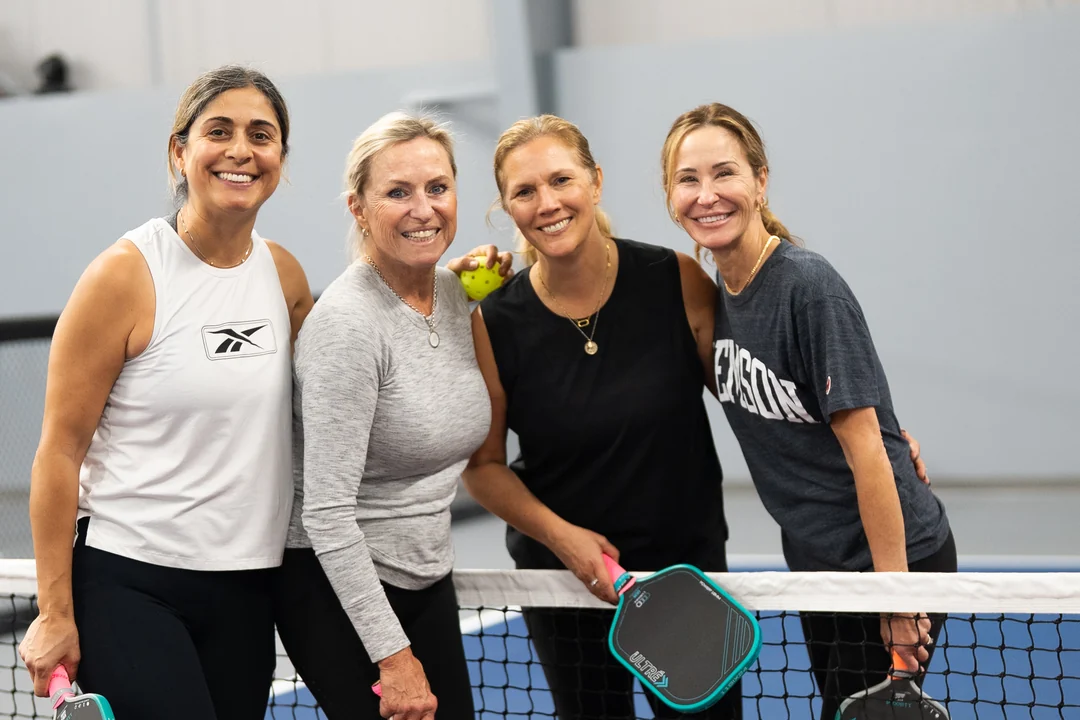
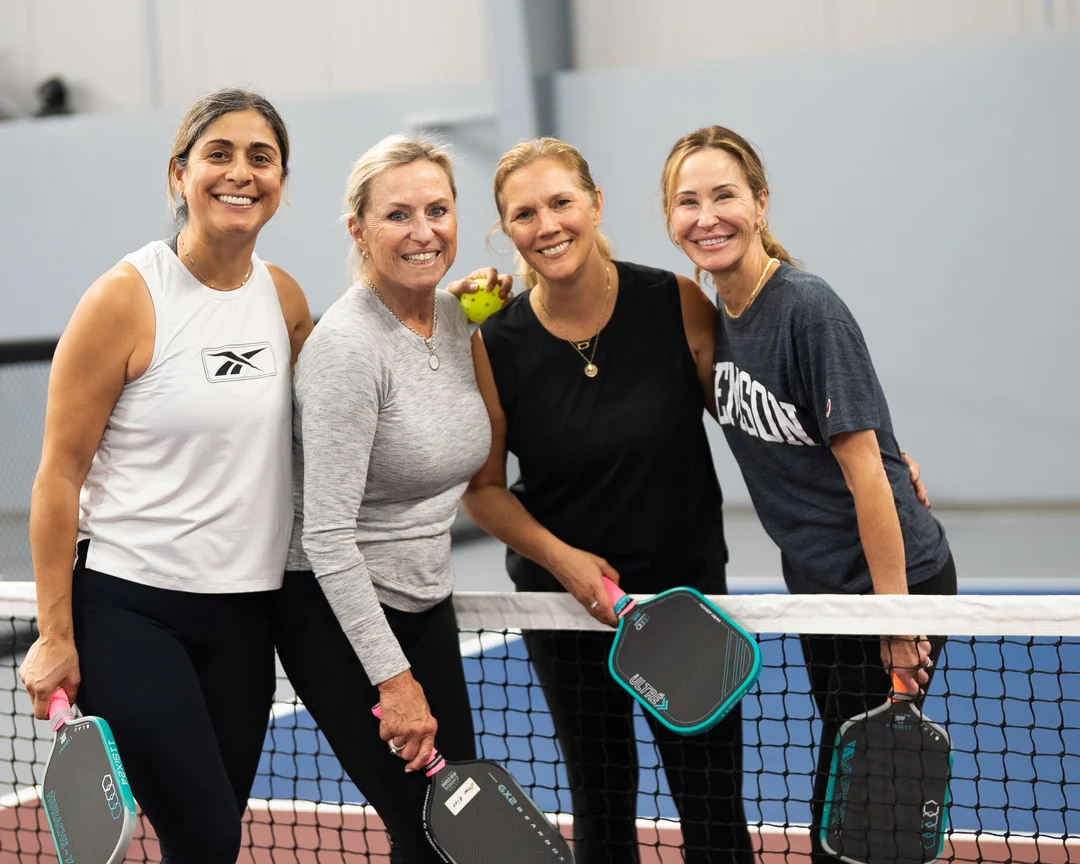
Lead beginner discovery with a welcoming photo hero

diff --git a/docs/new-to-pickle-ball/index.html b/docs/new-to-pickle-ball/index.html
@@ -5,7 +5,7 @@
   -moz-osx-font-smoothing: grayscale;
   -o-font-smoothing: antialiased;
 }
-</style><link rel="stylesheet" href="/nepc-webflow-snapshot/assets/nepc-seo.css"><link rel="stylesheet" href="/nepc-webflow-snapshot/assets/nepc-home-redesign.css?v=20261117-9"><link rel="stylesheet" href="/nepc-webflow-snapshot/assets/nepc-clubs.css?v=20261117-3"><link rel="stylesheet" href="/nepc-webflow-snapshot/assets/nepc-membership-play.css?v=20261117-11"><link rel="stylesheet" href="/nepc-webflow-snapshot/assets/nepc-final-pass.css?v=20261117-6"><link rel="stylesheet" href="/nepc-webflow-snapshot/assets/nepc-beginner-welcome.css?v=20261117-1"><!-- nepc-seo:start --><link rel="canonical" href="https://newenglandpickleball.com/new-to-pickle-ball/"><meta property="og:url" content="https://newenglandpickleball.com/new-to-pickle-ball/"><meta name="description" content="Learn doubles pickleball with NEPC Quick Start classes in Middleton, MA and Rye, NH. Explore the beginner program."><meta property="og:type" content="website"><meta property="og:title" content="Beginner Pickleball Classes in MA &amp; NH | NEPC"><meta property="og:description" content="Learn doubles pickleball with NEPC Quick Start classes in Middleton, MA and Rye, NH. Explore the beginner program."><meta property="og:image" content="https://cdn.prod.website-files.com/67d7a7154f2e71cc1081b1bf/685ec6c781d18bf59383025a_NEPC%20-%20OpenGraph.jpg"><meta name="twitter:card" content="summary_large_image"><meta name="twitter:title" content="Beginner Pickleball Classes in MA &amp; NH | NEPC"><meta name="twitter:description" content="Learn doubles pickleball with NEPC Quick Start classes in Middleton, MA and Rye, NH. Explore the beginner program."><meta name="twitter:image" content="https://cdn.prod.website-files.com/67d7a7154f2e71cc1081b1bf/685ec6c781d18bf59383025a_NEPC%20-%20OpenGraph.jpg"><script type="application/ld+json">{"@context":"https://schema.org","@graph":[{"@type":"Organization","@id":"https://newenglandpickleball.com/#organization","name":"New England Pickleball Club","url":"https://newenglandpickleball.com/","logo":"https://newenglandpickleball.com/assets/cdn.prod.website-files.com/67d7a7154f2e71cc1081b1bf/67d7cef66ded173bdc7deee3_NEPC%20Logo.svg","sameAs":["https://www.facebook.com/nepclub","https://www.instagram.com/nep_club/","https://www.youtube.com/@nep_club"]},{"@type":"FAQPage","mainEntity":[{"@type":"Question","name":"I’ve never played pickleball before but want to learn. What’s my first step?","acceptedAnswer":{"@type":"Answer","text":"Welcome to pickleball! Your first step is to sign up for one of our Quick Start classes. You can find them on our calendar . If there isn’t one that fits your schedule, you can request a private Quick Start class for you and up to 3 of your friends or family members."}},{"@type":"Question","name":"Do I need a paddle to take a class?","acceptedAnswer":{"@type":"Answer","text":"Nope! You can use one of our demo paddles at no additional charge."}},{"@type":"Question","name":"What shoes do I wear?","acceptedAnswer":{"@type":"Answer","text":"To help prevent injury, be sure to wear tennis sneakers or “pickleball shoes.” We ask that you change into your court shoes once you’re inside the club in order to keep the courts clean and protected from outdoor elements."}},{"@type":"Question","name":"What happens after I take a Quick Start class?","acceptedAnswer":{"@type":"Answer","text":"Congrats! You’ve learned the game. Your next step is to sign up for a Coach & Play 101 . You’ll play doubles matches for 90 minutes while reinforcing the basics of the game under the guidance of one of our teaching pros."}}]},{"@type":"BreadcrumbList","itemListElement":[{"@type":"ListItem","position":1,"name":"Home","item":"https://newenglandpickleball.com/"},{"@type":"ListItem","position":2,"name":"Beginner Pickleball Classes in MA & NH","item":"https://newenglandpickleball.com/new-to-pickle-ball/"}]}]}</script><!-- nepc-seo:end --></head><body data-nepc-home="true"><a class="home-skip-link" href="#main-content">Skip to main content</a><div class="page-wrapper navbar-on-page"><div class="global-styles"><div class="style-overrides w-embed"><style>
+</style><link rel="stylesheet" href="/nepc-webflow-snapshot/assets/nepc-seo.css"><link rel="stylesheet" href="/nepc-webflow-snapshot/assets/nepc-home-redesign.css?v=20261117-9"><link rel="stylesheet" href="/nepc-webflow-snapshot/assets/nepc-clubs.css?v=20261117-3"><link rel="stylesheet" href="/nepc-webflow-snapshot/assets/nepc-membership-play.css?v=20261117-11"><link rel="stylesheet" href="/nepc-webflow-snapshot/assets/nepc-final-pass.css?v=20261117-6"><link rel="stylesheet" href="/nepc-webflow-snapshot/assets/nepc-beginner-welcome.css?v=20261117-2"><!-- nepc-seo:start --><link rel="canonical" href="https://newenglandpickleball.com/new-to-pickle-ball/"><meta property="og:url" content="https://newenglandpickleball.com/new-to-pickle-ball/"><meta name="description" content="Learn doubles pickleball with NEPC Quick Start classes in Middleton, MA and Rye, NH. Explore the beginner program."><meta property="og:type" content="website"><meta property="og:title" content="Beginner Pickleball Classes in MA &amp; NH | NEPC"><meta property="og:description" content="Learn doubles pickleball with NEPC Quick Start classes in Middleton, MA and Rye, NH. Explore the beginner program."><meta property="og:image" content="https://cdn.prod.website-files.com/67d7a7154f2e71cc1081b1bf/685ec6c781d18bf59383025a_NEPC%20-%20OpenGraph.jpg"><meta name="twitter:card" content="summary_large_image"><meta name="twitter:title" content="Beginner Pickleball Classes in MA &amp; NH | NEPC"><meta name="twitter:description" content="Learn doubles pickleball with NEPC Quick Start classes in Middleton, MA and Rye, NH. Explore the beginner program."><meta name="twitter:image" content="https://cdn.prod.website-files.com/67d7a7154f2e71cc1081b1bf/685ec6c781d18bf59383025a_NEPC%20-%20OpenGraph.jpg"><script type="application/ld+json">{"@context":"https://schema.org","@graph":[{"@type":"Organization","@id":"https://newenglandpickleball.com/#organization","name":"New England Pickleball Club","url":"https://newenglandpickleball.com/","logo":"https://newenglandpickleball.com/assets/cdn.prod.website-files.com/67d7a7154f2e71cc1081b1bf/67d7cef66ded173bdc7deee3_NEPC%20Logo.svg","sameAs":["https://www.facebook.com/nepclub","https://www.instagram.com/nep_club/","https://www.youtube.com/@nep_club"]},{"@type":"FAQPage","mainEntity":[{"@type":"Question","name":"I’ve never played pickleball before but want to learn. What’s my first step?","acceptedAnswer":{"@type":"Answer","text":"Welcome to pickleball! Your first step is to sign up for one of our Quick Start classes. You can find them on our calendar . If there isn’t one that fits your schedule, you can request a private Quick Start class for you and up to 3 of your friends or family members."}},{"@type":"Question","name":"Do I need a paddle to take a class?","acceptedAnswer":{"@type":"Answer","text":"Nope! You can use one of our demo paddles at no additional charge."}},{"@type":"Question","name":"What shoes do I wear?","acceptedAnswer":{"@type":"Answer","text":"To help prevent injury, be sure to wear tennis sneakers or “pickleball shoes.” We ask that you change into your court shoes once you’re inside the club in order to keep the courts clean and protected from outdoor elements."}},{"@type":"Question","name":"What happens after I take a Quick Start class?","acceptedAnswer":{"@type":"Answer","text":"Congrats! You’ve learned the game. Your next step is to sign up for a Coach & Play 101 . You’ll play doubles matches for 90 minutes while reinforcing the basics of the game under the guidance of one of our teaching pros."}}]},{"@type":"BreadcrumbList","itemListElement":[{"@type":"ListItem","position":1,"name":"Home","item":"https://newenglandpickleball.com/"},{"@type":"ListItem","position":2,"name":"Beginner Pickleball Classes in MA & NH","item":"https://newenglandpickleball.com/new-to-pickle-ball/"}]}]}</script><!-- nepc-seo:end --></head><body data-nepc-home="true"><a class="home-skip-link" href="#main-content">Skip to main content</a><div class="page-wrapper navbar-on-page"><div class="global-styles"><div class="style-overrides w-embed"><style>
 
 /* Ensure all elements inherit the color from its parent */
 a,
@@ -313,7 +313,7 @@ margin: 0rem !important;
   opacity: 1 !important;
 }
 
-</style></div></div><div data-collapse="medium" data-animation="default" data-duration="400" data-w-id="8777b23f-9a78-05fe-8f88-da5899550985" data-easing="ease" data-easing2="ease" role="banner" class="navbar14_component w-nav"><div class="navbar14_container"><a href="/nepc-webflow-snapshot/" class="navbar14_logo-link w-nav-brand"><img loading="eager" src="/nepc-webflow-snapshot/assets/cdn.prod.website-files.com/67d7a7154f2e71cc1081b1bf/67d7cef66ded173bdc7deee3_NEPC Logo.svg" alt="New England Pickleball Club" class="navbar14_logo"/></a><nav role="navigation" id="w-node-_8777b23f-9a78-05fe-8f88-da5899550989-99550985" class="navbar14_menu w-nav-menu"><div class="navbar14_menu-link-wrapper"><div class="navbar14_menu-links"><a href="/nepc-webflow-snapshot/clubs/" class="navbar14_link w-nav-link">Our Clubs</a><a href="/nepc-webflow-snapshot/calendar/" class="navbar14_link w-nav-link">Find Your Play</a><a href="/nepc-webflow-snapshot/coaching/" class="navbar14_link w-nav-link">Lessons &amp; Coaching</a><a href="/nepc-webflow-snapshot/membership/" class="navbar14_link w-nav-link">Memberships</a><a href="/nepc-webflow-snapshot/community-events/" class="navbar14_link w-nav-link">Club Experiences</a><a href="/nepc-webflow-snapshot/contact/" class="navbar14_link w-nav-link">Contact</a></div><div id="w-node-_8777b23f-9a78-05fe-8f88-da589955099e-99550985" class="navbar14_button-wrapper"><a href="/nepc-webflow-snapshot/book-a-court/" class="button is-alternate is-small w-button">Book a Court</a><a href="/nepc-webflow-snapshot/new-to-pickle-ball/" class="button is-secondary is-alternate is-small w-button">New to Pickleball?</a></div></div></nav><div class="navbar14_menu-button w-nav-button"><div class="menu-icon2"><div class="menu-icon2_line-top"></div><div class="menu-icon2_line-middle"><div class="menu-icon1_line-middle-inner"></div></div><div class="menu-icon2_line-bottom"></div></div></div></div></div><main id="main-content" class="nepc-services nepc-clubs nepc-find-play fv-beginner-page" data-default-activity="beginner" data-day-period="month"><header class="fv-wrap fv-start-hero fv-welcome-hero"><div class="fv-welcome-copy"><h1 class="fv-kicker nepc-keyword-heading"><span>Beginner Pickleball Classes</span><span class="fv-welcome-locations">Rye, New Hampshire &amp; Middleton, Massachusetts</span></h1><div class="fv-hero-title">Your first game starts here.</div><p>Choose your club and a program. See the next sessions right here.</p></div><figure class="fv-welcome-photo"><img src="/nepc-webflow-snapshot/assets/nepc-photos/nepc-four-players-smiling-720.webp" srcset="/nepc-webflow-snapshot/assets/nepc-photos/nepc-four-players-smiling-720.webp 720w, /nepc-webflow-snapshot/assets/nepc-photos/nepc-four-players-smiling-1080.webp 1080w" sizes="(max-width: 700px) 320px, (max-width: 900px) 38vw, 348px" width="1080" height="720" alt="Four NEPC players smiling together beside the net." fetchpriority="high" decoding="async"></figure></header><section class="fv-start-band"><div class="fv-wrap fv-start-controls"><p class="fv-kicker fv-welcome-step"><span aria-hidden="true">1</span> Choose your club</p><div class="mp-location-controls" hidden role="group" aria-label="Choose a club for beginner sessions"><button type="button" class="mp-location-button" data-play-location="rye" aria-pressed="true"><span>Rye, NH</span></button><button type="button" class="mp-location-button" data-play-location="middleton" aria-pressed="false"><span>Middleton, MA</span></button></div><p class="fv-sr" data-location-status aria-live="polite"></p><div class="mp-beginner-programs" data-beginner-programs><p class="fv-welcome-step"><span aria-hidden="true">2</span> Choose a program</p><div class="mp-event-filters" role="group" aria-label="Filter beginner programs"><button type="button" class="mp-event-filter" data-program-filter="all" aria-pressed="true">All Beginner Programs</button><button type="button" class="mp-event-filter" data-program-filter="quickstart" aria-pressed="false">Quick Start</button><button type="button" class="mp-event-filter" data-program-filter="coach-play" aria-pressed="false">Coach &amp; Play 101</button><button type="button" class="mp-event-filter" data-program-filter="samara" aria-pressed="false">Guided Play with Samara</button></div></div><p class="fv-program-description" data-program-description>Choose a program or browse the next beginner sessions at your club.</p></div><section class="lc-container mp-sessions mp-agenda" id="sessions">
+</style></div></div><div data-collapse="medium" data-animation="default" data-duration="400" data-w-id="8777b23f-9a78-05fe-8f88-da5899550985" data-easing="ease" data-easing2="ease" role="banner" class="navbar14_component w-nav"><div class="navbar14_container"><a href="/nepc-webflow-snapshot/" class="navbar14_logo-link w-nav-brand"><img loading="eager" src="/nepc-webflow-snapshot/assets/cdn.prod.website-files.com/67d7a7154f2e71cc1081b1bf/67d7cef66ded173bdc7deee3_NEPC Logo.svg" alt="New England Pickleball Club" class="navbar14_logo"/></a><nav role="navigation" id="w-node-_8777b23f-9a78-05fe-8f88-da5899550989-99550985" class="navbar14_menu w-nav-menu"><div class="navbar14_menu-link-wrapper"><div class="navbar14_menu-links"><a href="/nepc-webflow-snapshot/clubs/" class="navbar14_link w-nav-link">Our Clubs</a><a href="/nepc-webflow-snapshot/calendar/" class="navbar14_link w-nav-link">Find Your Play</a><a href="/nepc-webflow-snapshot/coaching/" class="navbar14_link w-nav-link">Lessons &amp; Coaching</a><a href="/nepc-webflow-snapshot/membership/" class="navbar14_link w-nav-link">Memberships</a><a href="/nepc-webflow-snapshot/community-events/" class="navbar14_link w-nav-link">Club Experiences</a><a href="/nepc-webflow-snapshot/contact/" class="navbar14_link w-nav-link">Contact</a></div><div id="w-node-_8777b23f-9a78-05fe-8f88-da589955099e-99550985" class="navbar14_button-wrapper"><a href="/nepc-webflow-snapshot/book-a-court/" class="button is-alternate is-small w-button">Book a Court</a><a href="/nepc-webflow-snapshot/new-to-pickle-ball/" class="button is-secondary is-alternate is-small w-button">New to Pickleball?</a></div></div></nav><div class="navbar14_menu-button w-nav-button"><div class="menu-icon2"><div class="menu-icon2_line-top"></div><div class="menu-icon2_line-middle"><div class="menu-icon1_line-middle-inner"></div></div><div class="menu-icon2_line-bottom"></div></div></div></div></div><main id="main-content" class="nepc-services nepc-clubs nepc-find-play fv-beginner-page" data-default-activity="beginner" data-day-period="month"><header class="fv-wrap fv-start-hero fv-welcome-hero"><div class="fv-welcome-copy"><h1 class="fv-kicker nepc-keyword-heading"><span>Beginner Pickleball Classes</span><span class="fv-welcome-locations">Rye, New Hampshire &amp; Middleton, Massachusetts</span></h1><div class="fv-hero-title">Your first game<br>starts here.</div><p class="fv-welcome-intro">At New England Pickleball Club, beginners belong on the court. We’re here to help you learn, feel welcome and find opportunities to play.</p><p class="fv-welcome-programs">Start with Quick Start, build confidence with Coach &amp; Play 101, or join Guided Play with Samara.</p><a class="fv-button fv-welcome-cta" href="#beginner-sessions">Find your first session <span aria-hidden="true">↓</span></a></div><figure class="fv-welcome-photo"><img src="/nepc-webflow-snapshot/assets/nepc-photos/nepc-four-players-smiling-720.webp" srcset="/nepc-webflow-snapshot/assets/nepc-photos/nepc-four-players-smiling-720.webp 720w, /nepc-webflow-snapshot/assets/nepc-photos/nepc-four-players-smiling-1080.webp 1080w" sizes="(max-width: 700px) calc(100vw - 40px), (max-width: 900px) 43vw, (max-width: 1184px) 49vw, 584px" width="1080" height="864" alt="Four NEPC players smiling together beside the net." fetchpriority="high" decoding="async"></figure></header><section class="fv-start-band" id="beginner-sessions"><div class="fv-wrap fv-start-intro"><h2>Choose your club &amp; program.</h2><p>See the next sessions right here.</p></div><div class="fv-wrap fv-start-controls"><p class="fv-kicker fv-welcome-step"><span aria-hidden="true">1</span> Choose your club</p><div class="mp-location-controls" hidden role="group" aria-label="Choose a club for beginner sessions"><button type="button" class="mp-location-button" data-play-location="rye" aria-pressed="true"><span>Rye, NH</span></button><button type="button" class="mp-location-button" data-play-location="middleton" aria-pressed="false"><span>Middleton, MA</span></button></div><p class="fv-sr" data-location-status aria-live="polite"></p><div class="mp-beginner-programs" data-beginner-programs><p class="fv-welcome-step"><span aria-hidden="true">2</span> Choose a program</p><div class="mp-event-filters" role="group" aria-label="Filter beginner programs"><button type="button" class="mp-event-filter" data-program-filter="all" aria-pressed="true">All Beginner Programs</button><button type="button" class="mp-event-filter" data-program-filter="quickstart" aria-pressed="false">Quick Start</button><button type="button" class="mp-event-filter" data-program-filter="coach-play" aria-pressed="false">Coach &amp; Play 101</button><button type="button" class="mp-event-filter" data-program-filter="samara" aria-pressed="false">Guided Play with Samara</button></div></div><p class="fv-program-description" data-program-description>Choose a program or browse the next beginner sessions at your club.</p></div><section class="lc-container mp-sessions mp-agenda" id="sessions">
 <div data-event-results><div class="mp-agenda-heading"><div><p class="lc-eyebrow">Beginner sessions</p><h2 data-agenda-title>This week at NEPC Rye.</h2></div><div class="mp-view-options" role="group" aria-label="Event date view"><button type="button" data-date-view="day" aria-pressed="true">Day</button><button type="button" data-date-view="week" aria-pressed="false">Week</button><button type="button" data-date-view="month" aria-pressed="false">Month</button></div></div>
 <div class="mp-date-navigation"><button type="button" class="mp-date-arrow" data-period="previous" aria-label="Previous week">←</button><h3 data-period-label></h3><button type="button" class="mp-date-arrow" data-period="next" aria-label="Next week">→</button><button type="button" class="mp-today" data-period="current">This week</button></div>
 <p class="mp-agenda-status" role="status" data-agenda-status>Loading upcoming events…</p><div class="mp-event-days" data-event-days></div>

diff --git a/dist/new-to-pickle-ball/index.html b/dist/new-to-pickle-ball/index.html
@@ -5,7 +5,7 @@
   -moz-osx-font-smoothing: grayscale;
   -o-font-smoothing: antialiased;
 }
-</style><link rel="stylesheet" href="/assets/nepc-seo.css"><link rel="stylesheet" href="/assets/nepc-home-redesign.css?v=20261117-9"><link rel="stylesheet" href="/assets/nepc-clubs.css?v=20261117-3"><link rel="stylesheet" href="/assets/nepc-membership-play.css?v=20261117-11"><link rel="stylesheet" href="/assets/nepc-final-pass.css?v=20261117-6"><link rel="stylesheet" href="/assets/nepc-beginner-welcome.css?v=20261117-1"><!-- nepc-seo:start --><link rel="canonical" href="https://newenglandpickleball.com/new-to-pickle-ball/"><meta property="og:url" content="https://newenglandpickleball.com/new-to-pickle-ball/"><meta name="description" content="Learn doubles pickleball with NEPC Quick Start classes in Middleton, MA and Rye, NH. Explore the beginner program."><meta property="og:type" content="website"><meta property="og:title" content="Beginner Pickleball Classes in MA &amp; NH | NEPC"><meta property="og:description" content="Learn doubles pickleball with NEPC Quick Start classes in Middleton, MA and Rye, NH. Explore the beginner program."><meta property="og:image" content="https://cdn.prod.website-files.com/67d7a7154f2e71cc1081b1bf/685ec6c781d18bf59383025a_NEPC%20-%20OpenGraph.jpg"><meta name="twitter:card" content="summary_large_image"><meta name="twitter:title" content="Beginner Pickleball Classes in MA &amp; NH | NEPC"><meta name="twitter:description" content="Learn doubles pickleball with NEPC Quick Start classes in Middleton, MA and Rye, NH. Explore the beginner program."><meta name="twitter:image" content="https://cdn.prod.website-files.com/67d7a7154f2e71cc1081b1bf/685ec6c781d18bf59383025a_NEPC%20-%20OpenGraph.jpg"><script type="application/ld+json">{"@context":"https://schema.org","@graph":[{"@type":"Organization","@id":"https://newenglandpickleball.com/#organization","name":"New England Pickleball Club","url":"https://newenglandpickleball.com/","logo":"https://newenglandpickleball.com/assets/cdn.prod.website-files.com/67d7a7154f2e71cc1081b1bf/67d7cef66ded173bdc7deee3_NEPC%20Logo.svg","sameAs":["https://www.facebook.com/nepclub","https://www.instagram.com/nep_club/","https://www.youtube.com/@nep_club"]},{"@type":"FAQPage","mainEntity":[{"@type":"Question","name":"I’ve never played pickleball before but want to learn. What’s my first step?","acceptedAnswer":{"@type":"Answer","text":"Welcome to pickleball! Your first step is to sign up for one of our Quick Start classes. You can find them on our calendar . If there isn’t one that fits your schedule, you can request a private Quick Start class for you and up to 3 of your friends or family members."}},{"@type":"Question","name":"Do I need a paddle to take a class?","acceptedAnswer":{"@type":"Answer","text":"Nope! You can use one of our demo paddles at no additional charge."}},{"@type":"Question","name":"What shoes do I wear?","acceptedAnswer":{"@type":"Answer","text":"To help prevent injury, be sure to wear tennis sneakers or “pickleball shoes.” We ask that you change into your court shoes once you’re inside the club in order to keep the courts clean and protected from outdoor elements."}},{"@type":"Question","name":"What happens after I take a Quick Start class?","acceptedAnswer":{"@type":"Answer","text":"Congrats! You’ve learned the game. Your next step is to sign up for a Coach & Play 101 . You’ll play doubles matches for 90 minutes while reinforcing the basics of the game under the guidance of one of our teaching pros."}}]},{"@type":"BreadcrumbList","itemListElement":[{"@type":"ListItem","position":1,"name":"Home","item":"https://newenglandpickleball.com/"},{"@type":"ListItem","position":2,"name":"Beginner Pickleball Classes in MA & NH","item":"https://newenglandpickleball.com/new-to-pickle-ball/"}]}]}</script><!-- nepc-seo:end --></head><body data-nepc-home="true"><a class="home-skip-link" href="#main-content">Skip to main content</a><div class="page-wrapper navbar-on-page"><div class="global-styles"><div class="style-overrides w-embed"><style>
+</style><link rel="stylesheet" href="/assets/nepc-seo.css"><link rel="stylesheet" href="/assets/nepc-home-redesign.css?v=20261117-9"><link rel="stylesheet" href="/assets/nepc-clubs.css?v=20261117-3"><link rel="stylesheet" href="/assets/nepc-membership-play.css?v=20261117-11"><link rel="stylesheet" href="/assets/nepc-final-pass.css?v=20261117-6"><link rel="stylesheet" href="/assets/nepc-beginner-welcome.css?v=20261117-2"><!-- nepc-seo:start --><link rel="canonical" href="https://newenglandpickleball.com/new-to-pickle-ball/"><meta property="og:url" content="https://newenglandpickleball.com/new-to-pickle-ball/"><meta name="description" content="Learn doubles pickleball with NEPC Quick Start classes in Middleton, MA and Rye, NH. Explore the beginner program."><meta property="og:type" content="website"><meta property="og:title" content="Beginner Pickleball Classes in MA &amp; NH | NEPC"><meta property="og:description" content="Learn doubles pickleball with NEPC Quick Start classes in Middleton, MA and Rye, NH. Explore the beginner program."><meta property="og:image" content="https://cdn.prod.website-files.com/67d7a7154f2e71cc1081b1bf/685ec6c781d18bf59383025a_NEPC%20-%20OpenGraph.jpg"><meta name="twitter:card" content="summary_large_image"><meta name="twitter:title" content="Beginner Pickleball Classes in MA &amp; NH | NEPC"><meta name="twitter:description" content="Learn doubles pickleball with NEPC Quick Start classes in Middleton, MA and Rye, NH. Explore the beginner program."><meta name="twitter:image" content="https://cdn.prod.website-files.com/67d7a7154f2e71cc1081b1bf/685ec6c781d18bf59383025a_NEPC%20-%20OpenGraph.jpg"><script type="application/ld+json">{"@context":"https://schema.org","@graph":[{"@type":"Organization","@id":"https://newenglandpickleball.com/#organization","name":"New England Pickleball Club","url":"https://newenglandpickleball.com/","logo":"https://newenglandpickleball.com/assets/cdn.prod.website-files.com/67d7a7154f2e71cc1081b1bf/67d7cef66ded173bdc7deee3_NEPC%20Logo.svg","sameAs":["https://www.facebook.com/nepclub","https://www.instagram.com/nep_club/","https://www.youtube.com/@nep_club"]},{"@type":"FAQPage","mainEntity":[{"@type":"Question","name":"I’ve never played pickleball before but want to learn. What’s my first step?","acceptedAnswer":{"@type":"Answer","text":"Welcome to pickleball! Your first step is to sign up for one of our Quick Start classes. You can find them on our calendar . If there isn’t one that fits your schedule, you can request a private Quick Start class for you and up to 3 of your friends or family members."}},{"@type":"Question","name":"Do I need a paddle to take a class?","acceptedAnswer":{"@type":"Answer","text":"Nope! You can use one of our demo paddles at no additional charge."}},{"@type":"Question","name":"What shoes do I wear?","acceptedAnswer":{"@type":"Answer","text":"To help prevent injury, be sure to wear tennis sneakers or “pickleball shoes.” We ask that you change into your court shoes once you’re inside the club in order to keep the courts clean and protected from outdoor elements."}},{"@type":"Question","name":"What happens after I take a Quick Start class?","acceptedAnswer":{"@type":"Answer","text":"Congrats! You’ve learned the game. Your next step is to sign up for a Coach & Play 101 . You’ll play doubles matches for 90 minutes while reinforcing the basics of the game under the guidance of one of our teaching pros."}}]},{"@type":"BreadcrumbList","itemListElement":[{"@type":"ListItem","position":1,"name":"Home","item":"https://newenglandpickleball.com/"},{"@type":"ListItem","position":2,"name":"Beginner Pickleball Classes in MA & NH","item":"https://newenglandpickleball.com/new-to-pickle-ball/"}]}]}</script><!-- nepc-seo:end --></head><body data-nepc-home="true"><a class="home-skip-link" href="#main-content">Skip to main content</a><div class="page-wrapper navbar-on-page"><div class="global-styles"><div class="style-overrides w-embed"><style>
 
 /* Ensure all elements inherit the color from its parent */
 a,
@@ -313,7 +313,7 @@ margin: 0rem !important;
   opacity: 1 !important;
 }
 
-</style></div></div><div data-collapse="medium" data-animation="default" data-duration="400" data-w-id="8777b23f-9a78-05fe-8f88-da5899550985" data-easing="ease" data-easing2="ease" role="banner" class="navbar14_component w-nav"><div class="navbar14_container"><a href="/" class="navbar14_logo-link w-nav-brand"><img loading="eager" src="/assets/cdn.prod.website-files.com/67d7a7154f2e71cc1081b1bf/67d7cef66ded173bdc7deee3_NEPC Logo.svg" alt="New England Pickleball Club" class="navbar14_logo"/></a><nav role="navigation" id="w-node-_8777b23f-9a78-05fe-8f88-da5899550989-99550985" class="navbar14_menu w-nav-menu"><div class="navbar14_menu-link-wrapper"><div class="navbar14_menu-links"><a href="/clubs/" class="navbar14_link w-nav-link">Our Clubs</a><a href="/calendar/" class="navbar14_link w-nav-link">Find Your Play</a><a href="/coaching/" class="navbar14_link w-nav-link">Lessons &amp; Coaching</a><a href="/membership/" class="navbar14_link w-nav-link">Memberships</a><a href="/community-events/" class="navbar14_link w-nav-link">Club Experiences</a><a href="/contact/" class="navbar14_link w-nav-link">Contact</a></div><div id="w-node-_8777b23f-9a78-05fe-8f88-da589955099e-99550985" class="navbar14_button-wrapper"><a href="/book-a-court/" class="button is-alternate is-small w-button">Book a Court</a><a href="/new-to-pickle-ball/" class="button is-secondary is-alternate is-small w-button">New to Pickleball?</a></div></div></nav><div class="navbar14_menu-button w-nav-button"><div class="menu-icon2"><div class="menu-icon2_line-top"></div><div class="menu-icon2_line-middle"><div class="menu-icon1_line-middle-inner"></div></div><div class="menu-icon2_line-bottom"></div></div></div></div></div><main id="main-content" class="nepc-services nepc-clubs nepc-find-play fv-beginner-page" data-default-activity="beginner" data-day-period="month"><header class="fv-wrap fv-start-hero fv-welcome-hero"><div class="fv-welcome-copy"><h1 class="fv-kicker nepc-keyword-heading"><span>Beginner Pickleball Classes</span><span class="fv-welcome-locations">Rye, New Hampshire &amp; Middleton, Massachusetts</span></h1><div class="fv-hero-title">Your first game starts here.</div><p>Choose your club and a program. See the next sessions right here.</p></div><figure class="fv-welcome-photo"><img src="/assets/nepc-photos/nepc-four-players-smiling-720.webp" srcset="/assets/nepc-photos/nepc-four-players-smiling-720.webp 720w, /assets/nepc-photos/nepc-four-players-smiling-1080.webp 1080w" sizes="(max-width: 700px) 320px, (max-width: 900px) 38vw, 348px" width="1080" height="720" alt="Four NEPC players smiling together beside the net." fetchpriority="high" decoding="async"></figure></header><section class="fv-start-band"><div class="fv-wrap fv-start-controls"><p class="fv-kicker fv-welcome-step"><span aria-hidden="true">1</span> Choose your club</p><div class="mp-location-controls" hidden role="group" aria-label="Choose a club for beginner sessions"><button type="button" class="mp-location-button" data-play-location="rye" aria-pressed="true"><span>Rye, NH</span></button><button type="button" class="mp-location-button" data-play-location="middleton" aria-pressed="false"><span>Middleton, MA</span></button></div><p class="fv-sr" data-location-status aria-live="polite"></p><div class="mp-beginner-programs" data-beginner-programs><p class="fv-welcome-step"><span aria-hidden="true">2</span> Choose a program</p><div class="mp-event-filters" role="group" aria-label="Filter beginner programs"><button type="button" class="mp-event-filter" data-program-filter="all" aria-pressed="true">All Beginner Programs</button><button type="button" class="mp-event-filter" data-program-filter="quickstart" aria-pressed="false">Quick Start</button><button type="button" class="mp-event-filter" data-program-filter="coach-play" aria-pressed="false">Coach &amp; Play 101</button><button type="button" class="mp-event-filter" data-program-filter="samara" aria-pressed="false">Guided Play with Samara</button></div></div><p class="fv-program-description" data-program-description>Choose a program or browse the next beginner sessions at your club.</p></div><section class="lc-container mp-sessions mp-agenda" id="sessions">
+</style></div></div><div data-collapse="medium" data-animation="default" data-duration="400" data-w-id="8777b23f-9a78-05fe-8f88-da5899550985" data-easing="ease" data-easing2="ease" role="banner" class="navbar14_component w-nav"><div class="navbar14_container"><a href="/" class="navbar14_logo-link w-nav-brand"><img loading="eager" src="/assets/cdn.prod.website-files.com/67d7a7154f2e71cc1081b1bf/67d7cef66ded173bdc7deee3_NEPC Logo.svg" alt="New England Pickleball Club" class="navbar14_logo"/></a><nav role="navigation" id="w-node-_8777b23f-9a78-05fe-8f88-da5899550989-99550985" class="navbar14_menu w-nav-menu"><div class="navbar14_menu-link-wrapper"><div class="navbar14_menu-links"><a href="/clubs/" class="navbar14_link w-nav-link">Our Clubs</a><a href="/calendar/" class="navbar14_link w-nav-link">Find Your Play</a><a href="/coaching/" class="navbar14_link w-nav-link">Lessons &amp; Coaching</a><a href="/membership/" class="navbar14_link w-nav-link">Memberships</a><a href="/community-events/" class="navbar14_link w-nav-link">Club Experiences</a><a href="/contact/" class="navbar14_link w-nav-link">Contact</a></div><div id="w-node-_8777b23f-9a78-05fe-8f88-da589955099e-99550985" class="navbar14_button-wrapper"><a href="/book-a-court/" class="button is-alternate is-small w-button">Book a Court</a><a href="/new-to-pickle-ball/" class="button is-secondary is-alternate is-small w-button">New to Pickleball?</a></div></div></nav><div class="navbar14_menu-button w-nav-button"><div class="menu-icon2"><div class="menu-icon2_line-top"></div><div class="menu-icon2_line-middle"><div class="menu-icon1_line-middle-inner"></div></div><div class="menu-icon2_line-bottom"></div></div></div></div></div><main id="main-content" class="nepc-services nepc-clubs nepc-find-play fv-beginner-page" data-default-activity="beginner" data-day-period="month"><header class="fv-wrap fv-start-hero fv-welcome-hero"><div class="fv-welcome-copy"><h1 class="fv-kicker nepc-keyword-heading"><span>Beginner Pickleball Classes</span><span class="fv-welcome-locations">Rye, New Hampshire &amp; Middleton, Massachusetts</span></h1><div class="fv-hero-title">Your first game<br>starts here.</div><p class="fv-welcome-intro">At New England Pickleball Club, beginners belong on the court. We’re here to help you learn, feel welcome and find opportunities to play.</p><p class="fv-welcome-programs">Start with Quick Start, build confidence with Coach &amp; Play 101, or join Guided Play with Samara.</p><a class="fv-button fv-welcome-cta" href="#beginner-sessions">Find your first session <span aria-hidden="true">↓</span></a></div><figure class="fv-welcome-photo"><img src="/assets/nepc-photos/nepc-four-players-smiling-720.webp" srcset="/assets/nepc-photos/nepc-four-players-smiling-720.webp 720w, /assets/nepc-photos/nepc-four-players-smiling-1080.webp 1080w" sizes="(max-width: 700px) calc(100vw - 40px), (max-width: 900px) 43vw, (max-width: 1184px) 49vw, 584px" width="1080" height="864" alt="Four NEPC players smiling together beside the net." fetchpriority="high" decoding="async"></figure></header><section class="fv-start-band" id="beginner-sessions"><div class="fv-wrap fv-start-intro"><h2>Choose your club &amp; program.</h2><p>See the next sessions right here.</p></div><div class="fv-wrap fv-start-controls"><p class="fv-kicker fv-welcome-step"><span aria-hidden="true">1</span> Choose your club</p><div class="mp-location-controls" hidden role="group" aria-label="Choose a club for beginner sessions"><button type="button" class="mp-location-button" data-play-location="rye" aria-pressed="true"><span>Rye, NH</span></button><button type="button" class="mp-location-button" data-play-location="middleton" aria-pressed="false"><span>Middleton, MA</span></button></div><p class="fv-sr" data-location-status aria-live="polite"></p><div class="mp-beginner-programs" data-beginner-programs><p class="fv-welcome-step"><span aria-hidden="true">2</span> Choose a program</p><div class="mp-event-filters" role="group" aria-label="Filter beginner programs"><button type="button" class="mp-event-filter" data-program-filter="all" aria-pressed="true">All Beginner Programs</button><button type="button" class="mp-event-filter" data-program-filter="quickstart" aria-pressed="false">Quick Start</button><button type="button" class="mp-event-filter" data-program-filter="coach-play" aria-pressed="false">Coach &amp; Play 101</button><button type="button" class="mp-event-filter" data-program-filter="samara" aria-pressed="false">Guided Play with Samara</button></div></div><p class="fv-program-description" data-program-description>Choose a program or browse the next beginner sessions at your club.</p></div><section class="lc-container mp-sessions mp-agenda" id="sessions">
 <div data-event-results><div class="mp-agenda-heading"><div><p class="lc-eyebrow">Beginner sessions</p><h2 data-agenda-title>This week at NEPC Rye.</h2></div><div class="mp-view-options" role="group" aria-label="Event date view"><button type="button" data-date-view="day" aria-pressed="true">Day</button><button type="button" data-date-view="week" aria-pressed="false">Week</button><button type="button" data-date-view="month" aria-pressed="false">Month</button></div></div>
 <div class="mp-date-navigation"><button type="button" class="mp-date-arrow" data-period="previous" aria-label="Previous week">←</button><h3 data-period-label></h3><button type="button" class="mp-date-arrow" data-period="next" aria-label="Next week">→</button><button type="button" class="mp-today" data-period="current">This week</button></div>
 <p class="mp-agenda-status" role="status" data-agenda-status>Loading upcoming events…</p><div class="mp-event-days" data-event-days></div>

diff --git a/dist/assets/nepc-beginner-welcome.css b/dist/assets/nepc-beginner-welcome.css
@@ -1,10 +1,11 @@
-/* A compact welcome and a clear club-first sequence for beginner sessions. */
+/* A welcoming introduction before the club-first beginner session chooser. */
 .fv-beginner-page .fv-welcome-hero {
   display:grid;
-  grid-template-columns:minmax(0,1fr) 348px;
-  gap:48px;
+  grid-template-columns:minmax(0,.9fr) minmax(0,1.1fr);
+  gap:56px;
   align-items:center;
-  padding-block:32px;
+  min-height:clamp(580px,calc(100svh - 81px),720px);
+  padding-block:56px;
 }
 body[data-nepc-home] .fv-beginner-page h1.nepc-keyword-heading {
   margin:0 0 18px;
@@ -21,16 +22,31 @@ body[data-nepc-home] .fv-beginner-page h1.nepc-keyword-heading {
   letter-spacing:0;
 }
 .nepc-services .fv-welcome-copy .fv-hero-title {
-  max-width:20ch;
-  font-size:38px;
-  line-height:1.15;
+  max-width:16ch;
+  font-size:clamp(44px,4.3vw,56px);
+  line-height:1.08;
+  letter-spacing:-.045em;
   text-wrap:balance;
 }
 .nepc-services .fv-welcome-copy > p {
-  max-width:48ch;
+  max-width:46ch;
+  margin-top:20px;
+  font-size:15px;
+  line-height:1.75;
+}
+.nepc-services .fv-welcome-copy > .fv-welcome-programs {
   margin-top:14px;
   font-size:14px;
-  text-wrap:balance;
+}
+.fv-welcome-cta { margin-top:26px; }
+.fv-start-band { scroll-margin-top:24px; }
+.fv-start-intro { margin-bottom:26px; }
+.nepc-services .fv-start-intro h2 { font-size:27px; }
+.nepc-services .fv-start-intro > p { margin-top:7px; font-size:14px; }
+.fv-beginner-page .fv-start-band { padding-top:40px; }
+.fv-beginner-page .fv-welcome-photo {
+  width:100%;
+  border-radius:22px 22px 64px 22px;
 }
 .fv-welcome-photo {
   overflow:hidden;
@@ -41,7 +57,7 @@ body[data-nepc-home] .fv-beginner-page h1.nepc-keyword-heading {
   display:block;
   width:100%;
   height:auto;
-  aspect-ratio:3/2;
+  aspect-ratio:5/4;
   object-fit:cover;
 }
 .fv-beginner-page .fv-start-controls { display:block; }
@@ -87,24 +103,32 @@ body[data-nepc-home] .fv-beginner-page h1.nepc-keyword-heading {
 }
 @media (max-width:900px) {
   .fv-beginner-page .fv-welcome-hero {
-    grid-template-columns:minmax(0,1fr) 38%;
+    grid-template-columns:minmax(0,1fr) 43%;
     gap:28px;
+    min-height:0;
+    padding-block:44px;
   }
-  .nepc-services .fv-welcome-copy .fv-hero-title { font-size:32px; }
+  .nepc-services .fv-welcome-copy .fv-hero-title { font-size:40px; }
 }
 @media (max-width:700px) {
   .fv-beginner-page .fv-welcome-hero {
     grid-template-columns:1fr;
-    gap:20px;
-    padding-block:24px;
+    gap:30px;
+    padding-block:32px;
   }
   body[data-nepc-home] .fv-beginner-page h1.nepc-keyword-heading {
     margin-bottom:14px;
     font-size:17px;
   }
   .fv-welcome-locations { max-width:34ch; font-size:11px; }
-  .nepc-services .fv-welcome-copy .fv-hero-title { font-size:29px; }
-  .nepc-services .fv-welcome-copy > p { margin-top:10px; font-size:13px; }
-  .fv-welcome-photo { width:min(320px,100%); }
+  .nepc-services .fv-welcome-copy .fv-hero-title { font-size:38px; }
+  .nepc-services .fv-welcome-copy > p { margin-top:18px; font-size:14px; }
+  .nepc-services .fv-welcome-copy > .fv-welcome-programs { margin-top:12px; font-size:13px; }
+  .fv-welcome-cta { margin-top:22px; }
+  .fv-beginner-page .fv-welcome-photo { border-radius:18px 18px 40px 18px; }
+  .fv-beginner-page .fv-start-band { padding-top:30px; }
+  .fv-start-intro { margin-bottom:24px; }
+  .nepc-services .fv-start-intro h2 { font-size:24px; }
+  .nepc-services .fv-start-intro > p { font-size:13px; }
   .fv-beginner-page .mp-location-button { min-width:0; flex:1; }
 }

diff --git a/docs/assets/nepc-beginner-welcome.css b/docs/assets/nepc-beginner-welcome.css
@@ -1,10 +1,11 @@
-/* A compact welcome and a clear club-first sequence for beginner sessions. */
+/* A welcoming introduction before the club-first beginner session chooser. */
 .fv-beginner-page .fv-welcome-hero {
   display:grid;
-  grid-template-columns:minmax(0,1fr) 348px;
-  gap:48px;
+  grid-template-columns:minmax(0,.9fr) minmax(0,1.1fr);
+  gap:56px;
   align-items:center;
-  padding-block:32px;
+  min-height:clamp(580px,calc(100svh - 81px),720px);
+  padding-block:56px;
 }
 body[data-nepc-home] .fv-beginner-page h1.nepc-keyword-heading {
   margin:0 0 18px;
@@ -21,16 +22,31 @@ body[data-nepc-home] .fv-beginner-page h1.nepc-keyword-heading {
   letter-spacing:0;
 }
 .nepc-services .fv-welcome-copy .fv-hero-title {
-  max-width:20ch;
-  font-size:38px;
-  line-height:1.15;
+  max-width:16ch;
+  font-size:clamp(44px,4.3vw,56px);
+  line-height:1.08;
+  letter-spacing:-.045em;
   text-wrap:balance;
 }
 .nepc-services .fv-welcome-copy > p {
-  max-width:48ch;
+  max-width:46ch;
+  margin-top:20px;
+  font-size:15px;
+  line-height:1.75;
+}
+.nepc-services .fv-welcome-copy > .fv-welcome-programs {
   margin-top:14px;
   font-size:14px;
-  text-wrap:balance;
+}
+.fv-welcome-cta { margin-top:26px; }
+.fv-start-band { scroll-margin-top:24px; }
+.fv-start-intro { margin-bottom:26px; }
+.nepc-services .fv-start-intro h2 { font-size:27px; }
+.nepc-services .fv-start-intro > p { margin-top:7px; font-size:14px; }
+.fv-beginner-page .fv-start-band { padding-top:40px; }
+.fv-beginner-page .fv-welcome-photo {
+  width:100%;
+  border-radius:22px 22px 64px 22px;
 }
 .fv-welcome-photo {
   overflow:hidden;
@@ -41,7 +57,7 @@ body[data-nepc-home] .fv-beginner-page h1.nepc-keyword-heading {
   display:block;
   width:100%;
   height:auto;
-  aspect-ratio:3/2;
+  aspect-ratio:5/4;
   object-fit:cover;
 }
 .fv-beginner-page .fv-start-controls { display:block; }
@@ -87,24 +103,32 @@ body[data-nepc-home] .fv-beginner-page h1.nepc-keyword-heading {
 }
 @media (max-width:900px) {
   .fv-beginner-page .fv-welcome-hero {
-    grid-template-columns:minmax(0,1fr) 38%;
+    grid-template-columns:minmax(0,1fr) 43%;
     gap:28px;
+    min-height:0;
+    padding-block:44px;
   }
-  .nepc-services .fv-welcome-copy .fv-hero-title { font-size:32px; }
+  .nepc-services .fv-welcome-copy .fv-hero-title { font-size:40px; }
 }
 @media (max-width:700px) {
   .fv-beginner-page .fv-welcome-hero {
     grid-template-columns:1fr;
-    gap:20px;
-    padding-block:24px;
+    gap:30px;
+    padding-block:32px;
   }
   body[data-nepc-home] .fv-beginner-page h1.nepc-keyword-heading {
     margin-bottom:14px;
     font-size:17px;
   }
   .fv-welcome-locations { max-width:34ch; font-size:11px; }
-  .nepc-services .fv-welcome-copy .fv-hero-title { font-size:29px; }
-  .nepc-services .fv-welcome-copy > p { margin-top:10px; font-size:13px; }
-  .fv-welcome-photo { width:min(320px,100%); }
+  .nepc-services .fv-welcome-copy .fv-hero-title { font-size:38px; }
+  .nepc-services .fv-welcome-copy > p { margin-top:18px; font-size:14px; }
+  .nepc-services .fv-welcome-copy > .fv-welcome-programs { margin-top:12px; font-size:13px; }
+  .fv-welcome-cta { margin-top:22px; }
+  .fv-beginner-page .fv-welcome-photo { border-radius:18px 18px 40px 18px; }
+  .fv-beginner-page .fv-start-band { padding-top:30px; }
+  .fv-start-intro { margin-bottom:24px; }
+  .nepc-services .fv-start-intro h2 { font-size:24px; }
+  .nepc-services .fv-start-intro > p { font-size:13px; }
   .fv-beginner-page .mp-location-button { min-width:0; flex:1; }
 }
